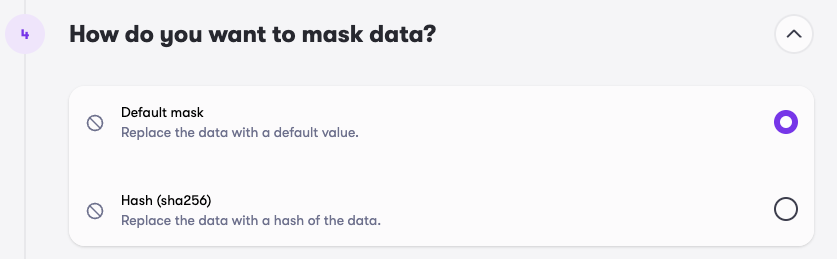
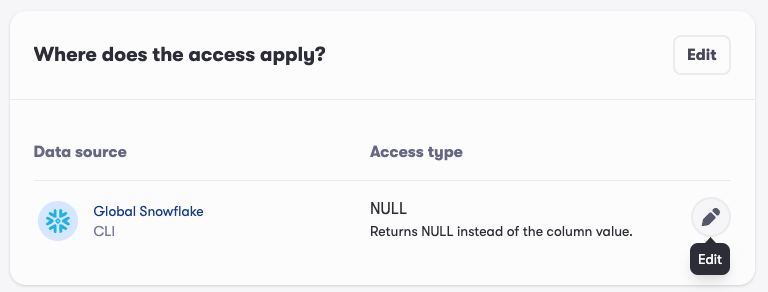
Small updates

diff --git a/docs/cloud/details/access_management/masks.md b/docs/cloud/details/access_management/masks.md
@@ -27,6 +27,6 @@ Note: Column masks imported from data sources cannot be edited within Raito. It 
 
 Creating a mask is similar to [creating a grant](/docs/cloud/access_management/grants), with a few key differences:
 
- - Only columns can be selected for the what-list.
- - An additional step is available to choose the type of masking you want to apply.  
+ - Only columns can be selected for the what-list. You'll need to select the parent table first and then pick the columns you would like to mask.
+ - In the section `Where does the mask apply?' you can select the type of masking that needs to be applied for each data source by clicking the Edit button next to it.  
  [![Create Mask - Select Type](/assets/images/cloud/access_management/create-mask-type.png)](/assets/images/cloud/access_management/create-mask-type.png){:target="_blank"}
